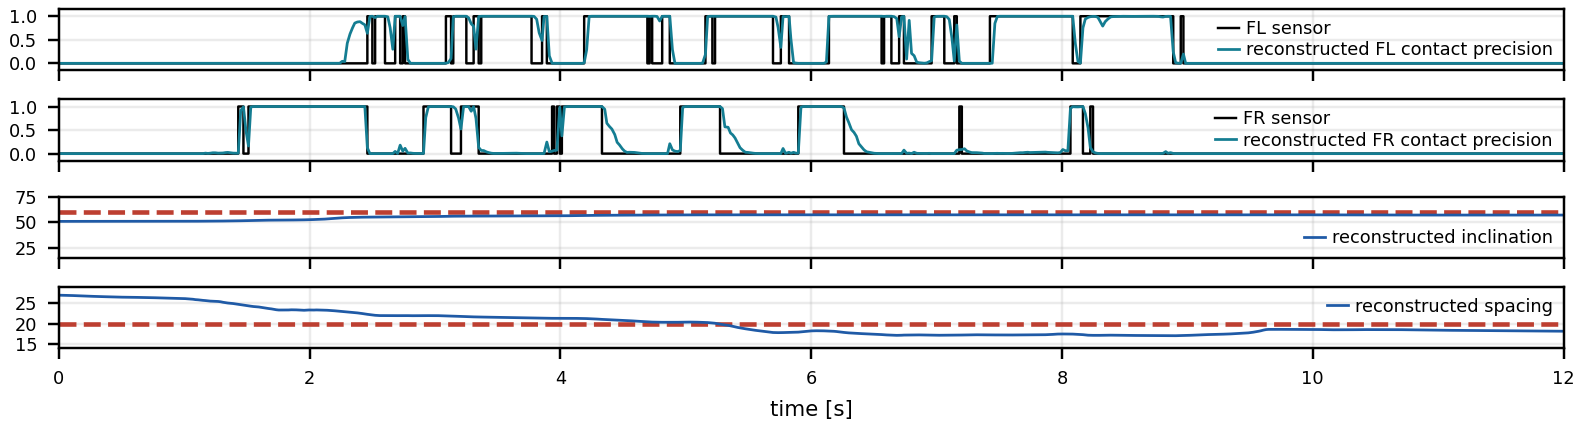
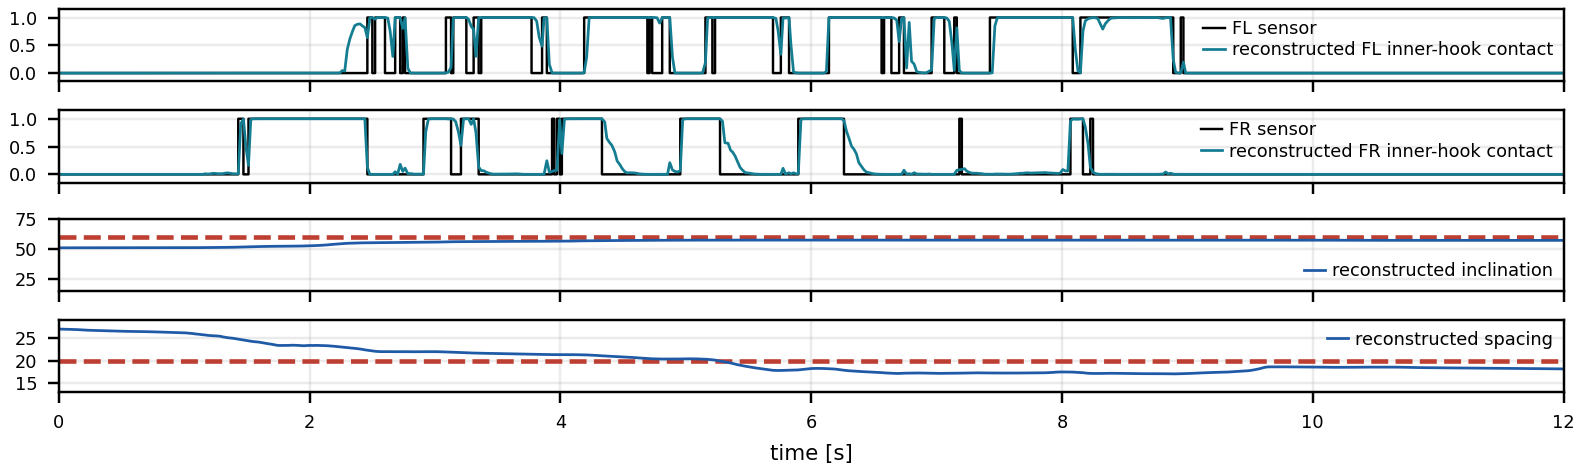
update: plot legend names

diff --git a/deploy/plot_ladder_experiment.py b/deploy/plot_ladder_experiment.py
@@ -14,7 +14,7 @@ PLOT_FR_CONTACT = True
 PLOT_INCLINATION = True
 PLOT_SPACING = True
 PLOT_FRICTION = False
-PLOT_HEIGHT_IN = 0.45
+PLOT_HEIGHT_IN = 0.50
 FIXED_VERTICAL_SPACE_IN = 0.15
 FIGURE_WIDTH_IN = 7.2
 NOMINAL_INCLINATION_DEG = 60.0
@@ -144,7 +144,7 @@ def main():
                 contact_probability[:, index],
                 color="#147d92",
                 linewidth=0.9,
-                label=f"reconstructed {name} contact precision",
+                label=f"reconstructed {name} inner-hook contact",
             )
             axis.set_ylim(-0.15, 1.15)
             axis.set_yticks((0.0, 0.5, 1.0))
@@ -169,7 +169,7 @@ def main():
                 linewidth=0.9,
                 label="reconstructed spacing",
             )
-            axis.set_ylim(14, 29)
+            axis.set_ylim(13, 29)
             axis.legend(loc="upper right", **legend_style)
         elif kind == "friction":
             axis.plot(
